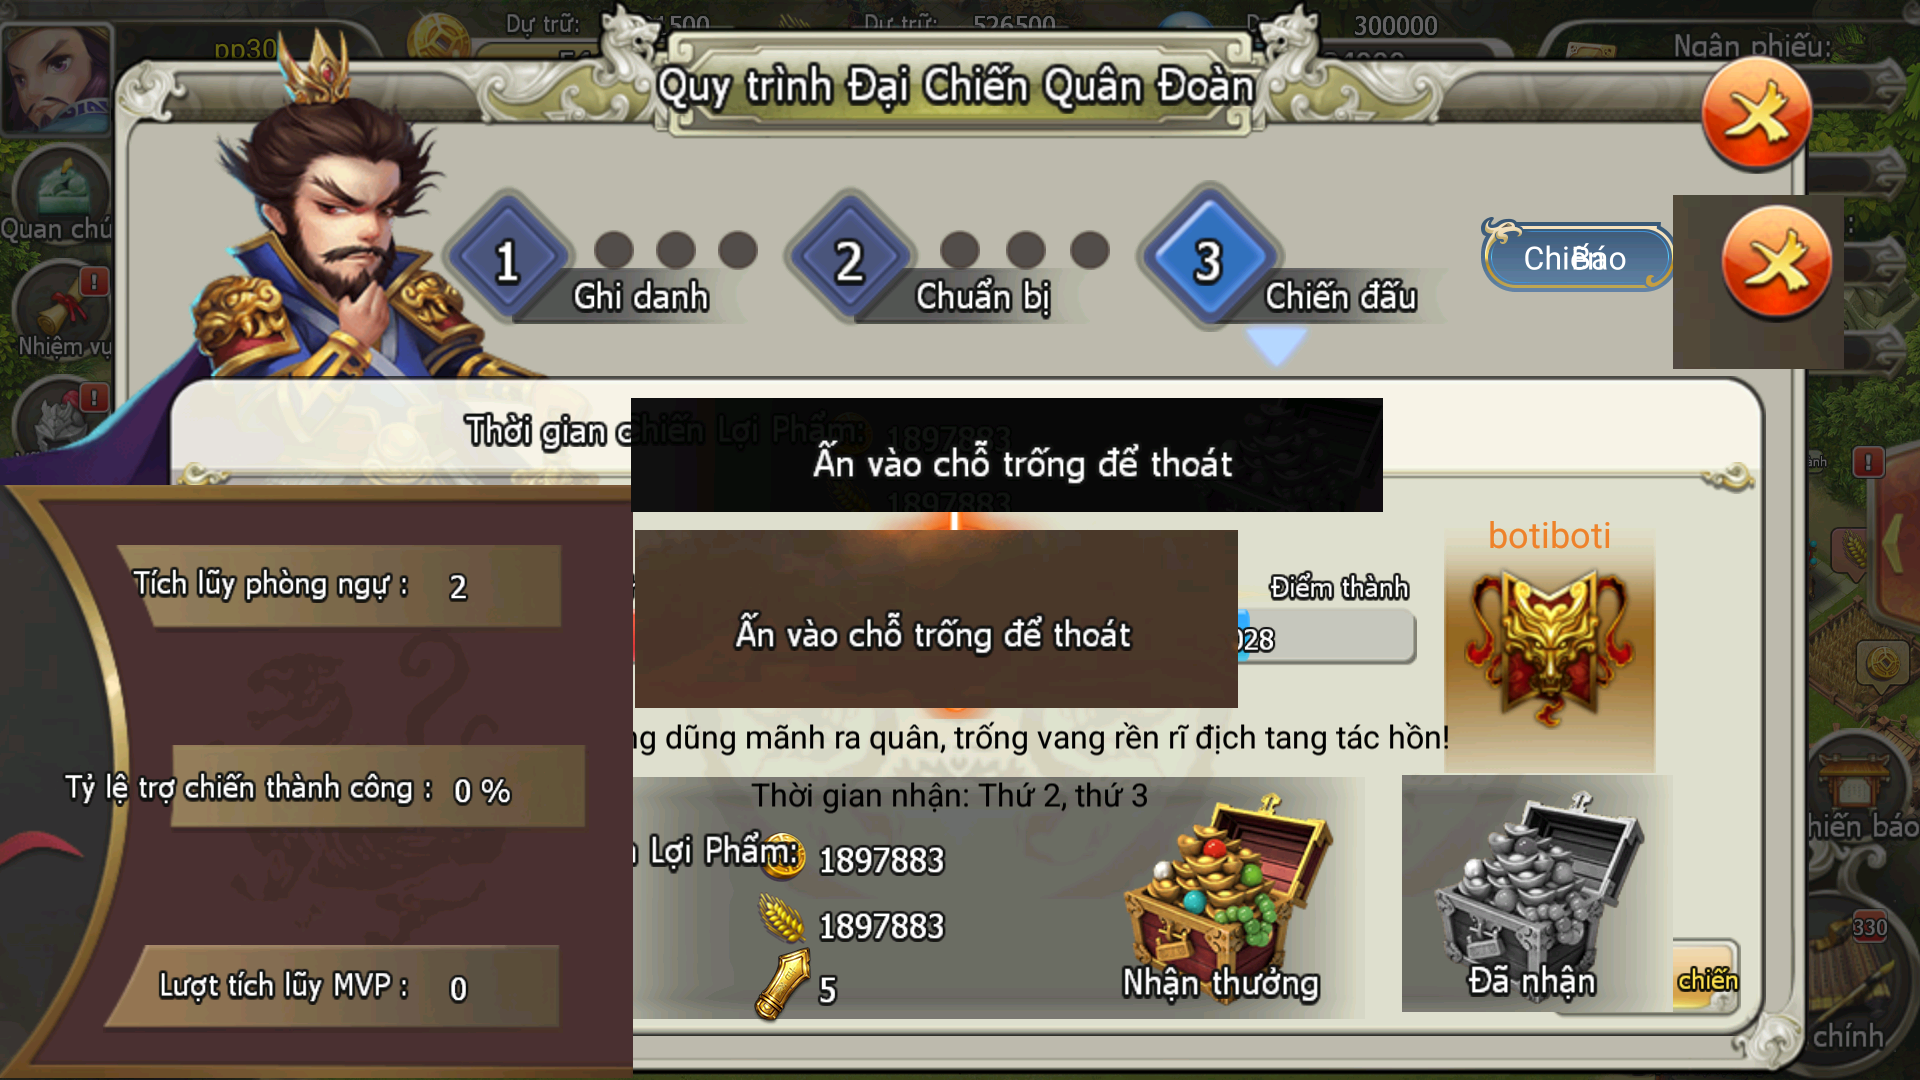
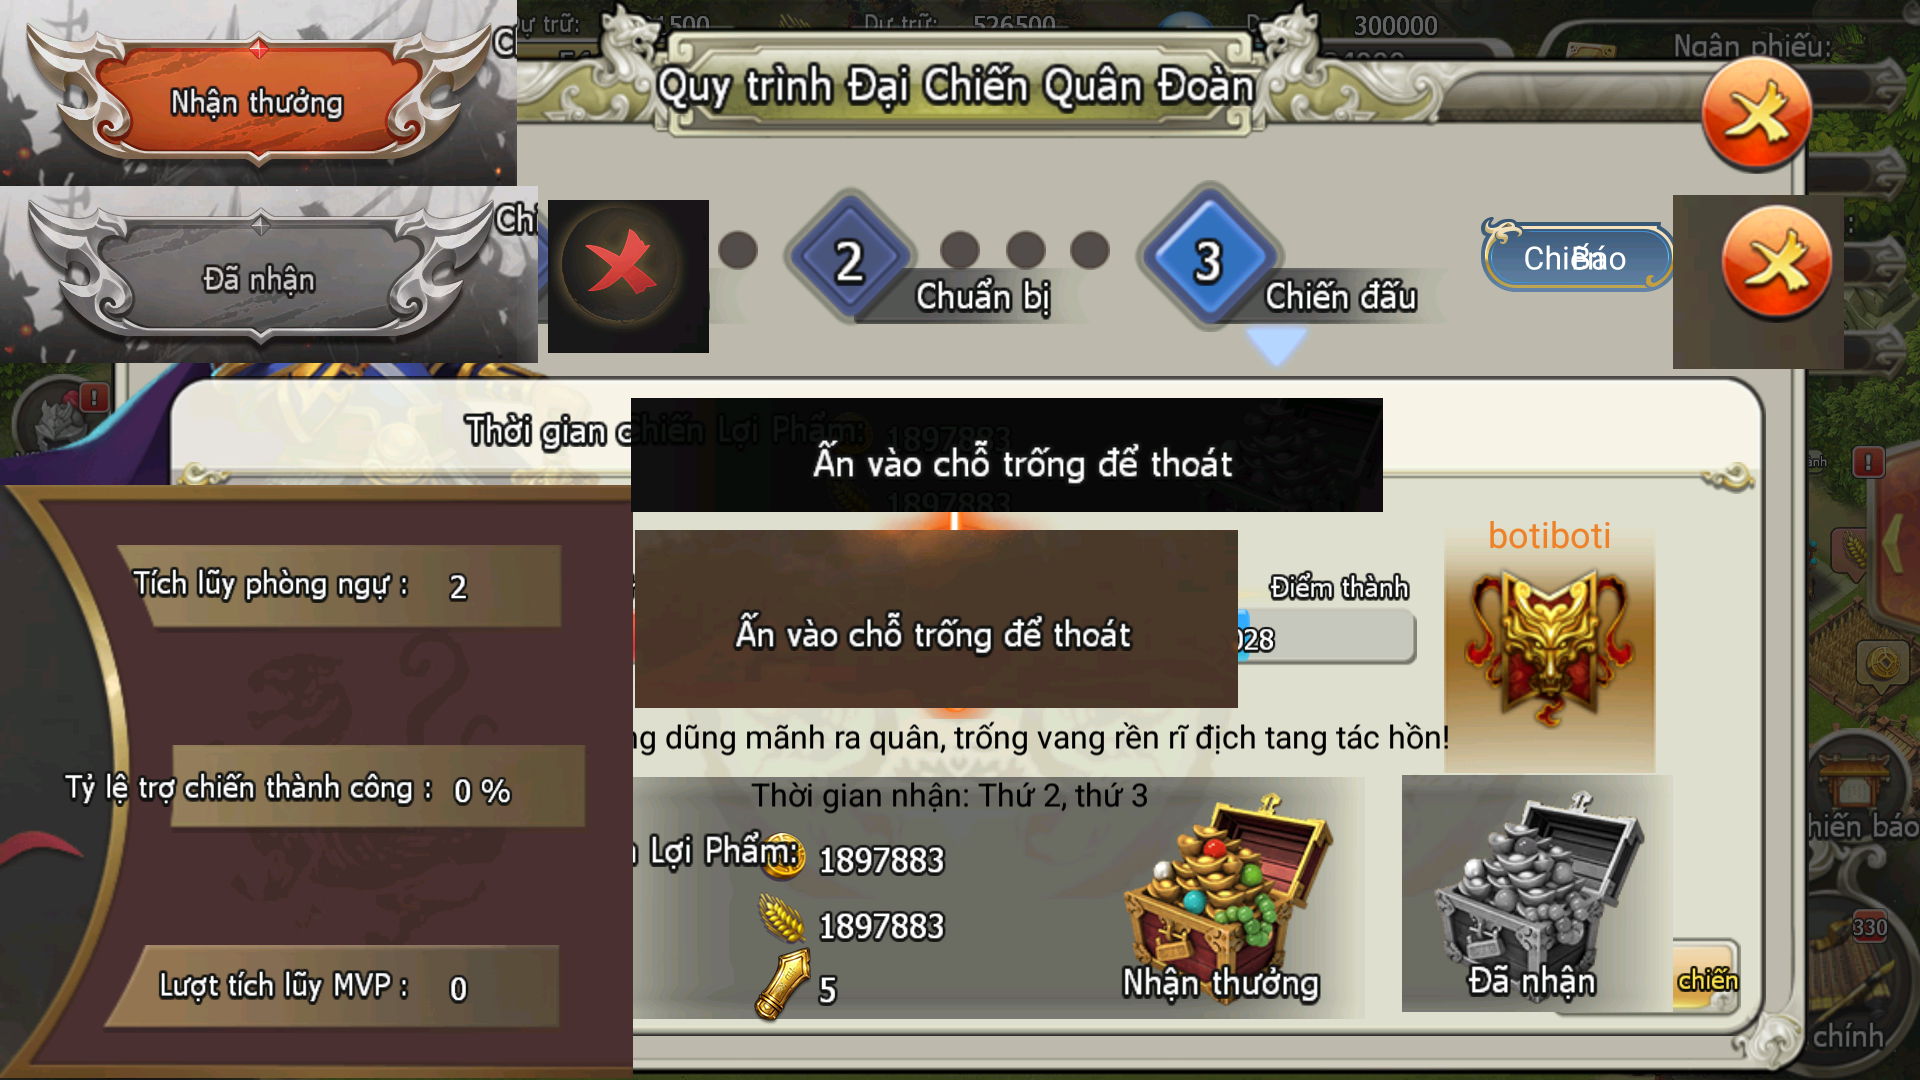
atr

Changed region(s): [[0.0, 0.0, 0.375, 0.3361]]

diff --git a/dctq_auto/tasks/common/war/guild/task_run_war_guild.py b/dctq_auto/tasks/common/war/guild/task_run_war_guild.py
@@ -9,6 +9,9 @@ from dctq_auto.config.constants import (
     _TEMPLATE_CHIEN_TRANH_DOAN_CHIEN_DA_NHAN_THUONG,
     _TEMPLATE_CHIEN_TRANH_DOAN_CHIEN_DONG_TONG_KET,
     _TEMPLATE_CHIEN_TRANH_DOAN_CHIEN_TONG_KET,
+    _TEMPLATE_CHIEN_TRANH_TAM_QUAN_DA_NHAN_THUONG,
+    _TEMPLATE_CHIEN_TRANH_TAM_QUAN_CHUA_NHAN_THUONG,
+    _TEMPLATE_CHIEN_TRANH_TAM_QUAN_DONG_TONG_KET,
 )
 from dctq_auto.tasks.common.battle.battle_utils import click_match, match, screen_bgr
 from dctq_auto.vision.template_store import get_templates
@@ -24,6 +27,10 @@ _TEMPLATES = (
     _TEMPLATE_CHIEN_TRANH_DOAN_CHIEN_AN_CHO_TRONG_DE_THOAT,
     _TEMPLATE_CHIEN_TRANH_DOAN_CHIEN_TONG_KET,
     _TEMPLATE_CHIEN_TRANH_DOAN_CHIEN_DONG_TONG_KET,
+    
+    _TEMPLATE_CHIEN_TRANH_TAM_QUAN_DA_NHAN_THUONG,
+    _TEMPLATE_CHIEN_TRANH_TAM_QUAN_CHUA_NHAN_THUONG,
+    _TEMPLATE_CHIEN_TRANH_TAM_QUAN_DONG_TONG_KET,
 )
 
 

diff --git a/dctq_auto/config/constants.py b/dctq_auto/config/constants.py
@@ -54,6 +54,9 @@ _TEMPLATE_CHIEN_TRANH_DOAN_CHIEN_AN_CHO_TRONG_DE_NHAN_THUONG = "chien_tranh.doan
 _TEMPLATE_CHIEN_TRANH_DOAN_CHIEN_AN_CHO_TRONG_DE_THOAT = "chien_tranh.doan_chien/an_cho_trong_de_thoat"
 _TEMPLATE_CHIEN_TRANH_DOAN_CHIEN_TONG_KET = "chien_tranh.doan_chien/tong_ket_doan_chien"
 _TEMPLATE_CHIEN_TRANH_DOAN_CHIEN_DONG_TONG_KET = "chien_tranh.doan_chien/dong_tong_ket_doan_chien"
+_TEMPLATE_CHIEN_TRANH_TAM_QUAN_DA_NHAN_THUONG = "chien_tranh.doan_chien/da_nhan_thuong_tam_quan"
+_TEMPLATE_CHIEN_TRANH_TAM_QUAN_CHUA_NHAN_THUONG = "chien_tranh.doan_chien/chua_nhan_thuong_tam_quan"
+_TEMPLATE_CHIEN_TRANH_TAM_QUAN_DONG_TONG_KET = "chien_tranh.doan_chien/dong_tong_ket_tam_quan"
 
 # Template dùng trong quy trình nhận thưởng Tam Quốc Lệnh.
 _TEMPLATE_MAIN_TAM_QUOC_LENH = "main/tam_quoc_lenh"
